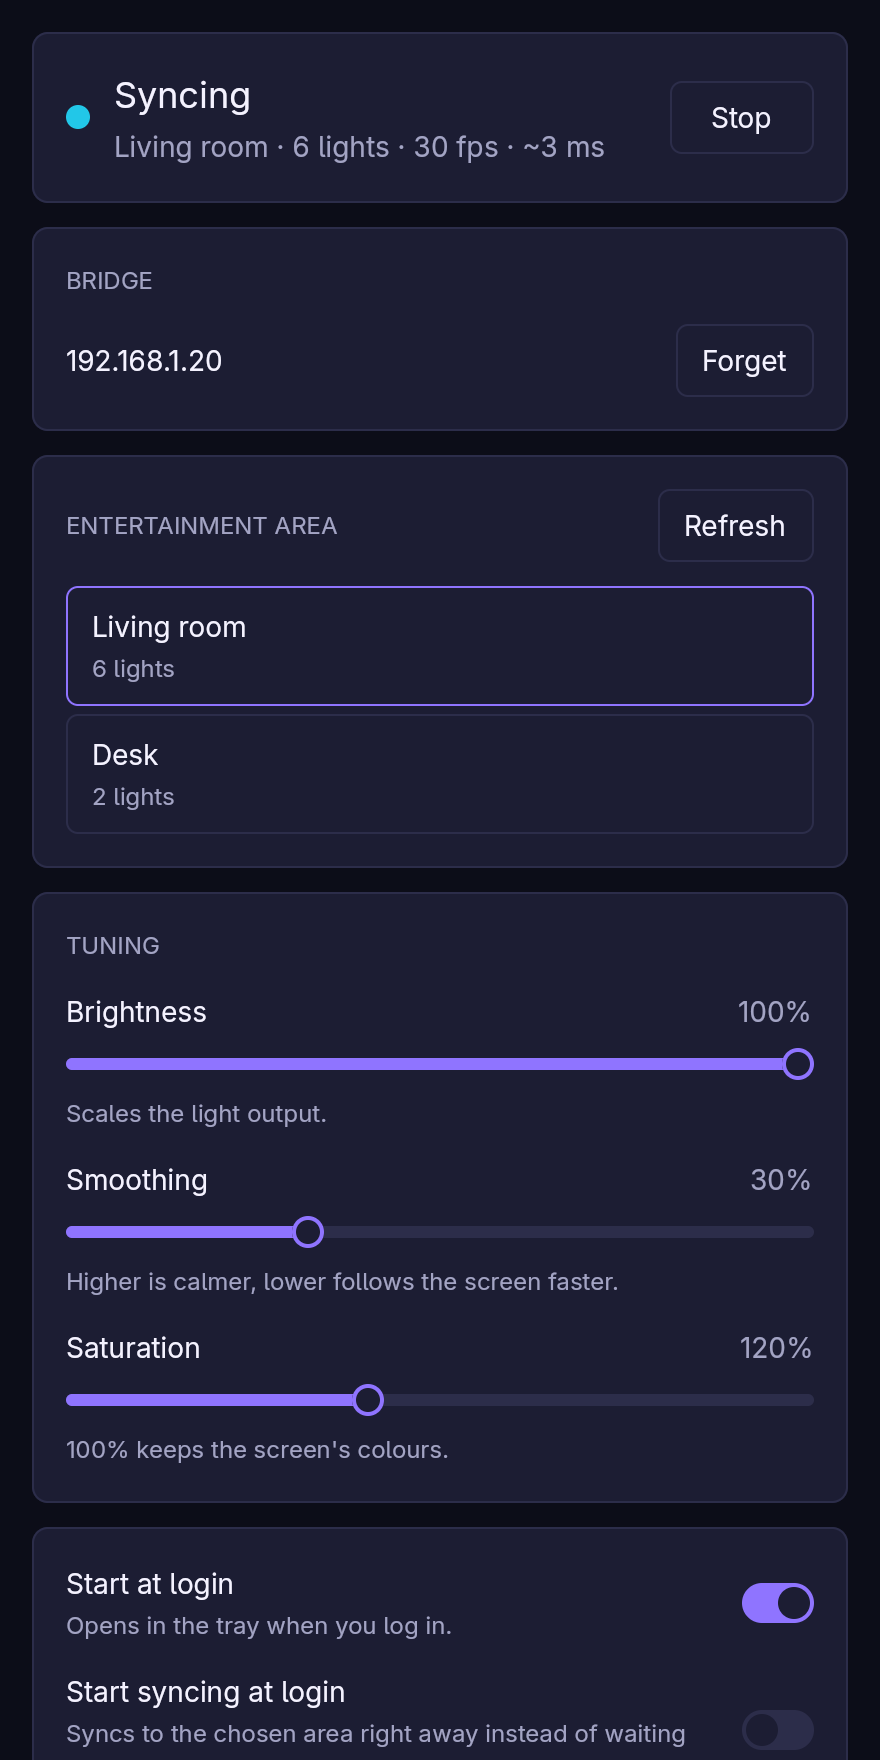
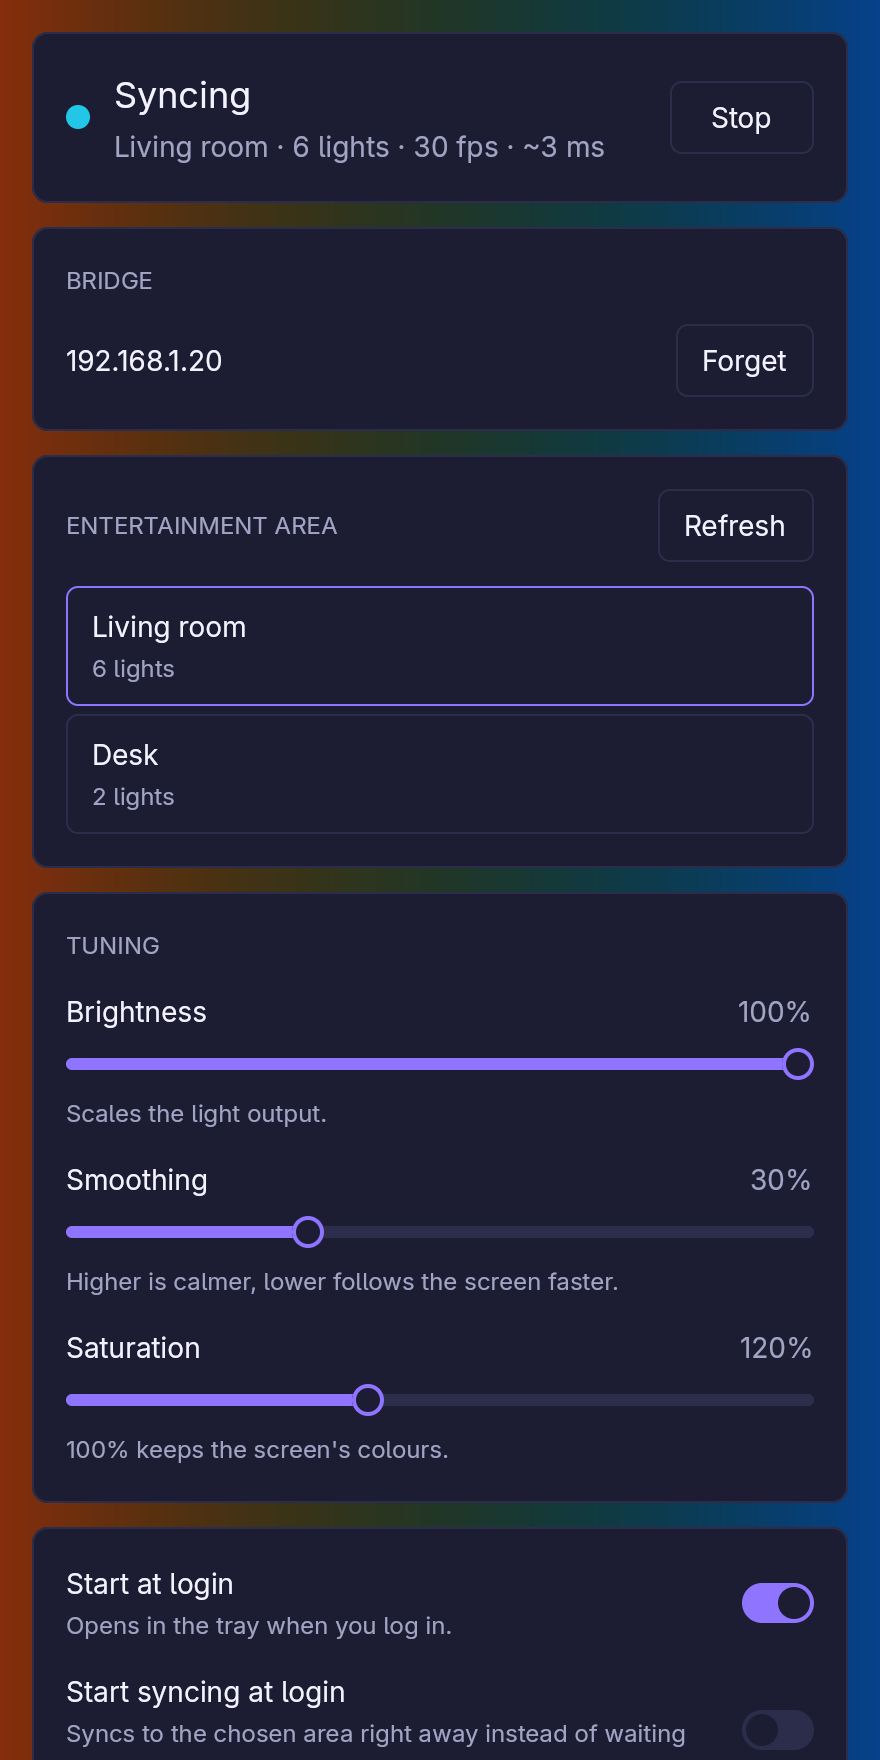
feat(gui): tint the window background with the screen's colours while syncing (#17)
The engine publishes the colours it sends each frame through
Engine::subscribe_colors, on its own channel so status watchers don't wake
every frame. The window paints a left-to-right gradient of them behind the cards.

Changed region(s): [[0.0, 0.0, 1.0, 1.0]]

diff --git a/crates/lightmime-gui/src/view.rs b/crates/lightmime-gui/src/view.rs
@@ -7,11 +7,12 @@ use std::time::Duration;
 
 use anyhow::Result;
 use gpui::{
-    AnyElement, Bounds, Context, Entity, FontWeight, Pixels, SharedString, Task, Window, div,
-    prelude::*, px,
+    AnyElement, Bounds, Context, Entity, FontWeight, Hsla, Pixels, Rgba, SharedString, Task,
+    Window, div, linear_color_stop, linear_gradient, prelude::*, px,
 };
+use lightmime_core::color::Zone;
 use lightmime_core::config::{MAX_SATURATION, MAX_SMOOTHING};
-use lightmime_core::hue::{self, Bridge, DiscoveredBridge};
+use lightmime_core::hue::{self, Bridge, ChannelColor, DiscoveredBridge};
 use lightmime_core::{BridgeConfig, EngineState, Status, SyncSettings};
 
 use crate::Shared;
@@ -87,6 +88,8 @@ pub struct MainView {
     slider_bounds: [Rc<Cell<Bounds<Pixels>>>; 3],
     save_settings: Option<Task<()>>,
     drag: Drag,
+    /// Left and right of the screen while syncing, painted behind the cards.
+    screen: Option<[Hsla; 2]>,
     _watchers: Vec<Task<()>>,
 }
 
@@ -103,6 +106,9 @@ impl MainView {
         let settings_watcher = watch(shared.engine.subscribe_settings(), cx, |this, s| {
             this.settings = s
         });
+        let colors_watcher = watch(shared.engine.subscribe_colors(), cx, |this, colors| {
+            this.screen = screen_edges(&colors)
+        });
 
         let mut view = Self {
             status: shared.engine.status(),
@@ -115,9 +121,10 @@ impl MainView {
             autostart: autostart::current(),
             notice: None,
             drag: Drag::default(),
+            screen: None,
             slider_bounds: Default::default(),
             save_settings: None,
-            _watchers: vec![status_watcher, settings_watcher],
+            _watchers: vec![status_watcher, settings_watcher, colors_watcher],
             shared,
         };
         if view.bridge.is_paired() {
@@ -612,7 +619,14 @@ impl Render for MainView {
             .id("main")
             .size_full()
             .overflow_y_scroll()
-            .bg(theme.bg)
+            .map(|this| match self.screen {
+                Some([left, right]) => this.bg(linear_gradient(
+                    90.,
+                    linear_color_stop(left, 0.),
+                    linear_color_stop(right, 1.),
+                )),
+                None => this.bg(theme.bg),
+            })
             .text_color(theme.text)
             .p_4()
             .flex()
@@ -640,6 +654,7 @@ impl Render for MainView {
             .into_any_element();
         div()
             .size_full()
+            .bg(theme.bg)
             .font_family(cx.global::<UiFont>().0.clone())
             .text_color(theme.text)
             .child(decorations::frame(
@@ -649,6 +664,34 @@ impl Render for MainView {
                 &self.drag,
                 content,
             ))
+    }
+}
+
+/// Average colour of the lights on the left and right half of the screen, half transparent
+/// so the theme's background tones it down.
+fn screen_edges(colors: &[(Zone, ChannelColor)]) -> Option<[Hsla; 2]> {
+    let side = |left: bool| {
+        let lights: Vec<_> = colors
+            .iter()
+            .filter(|(zone, _)| (zone.x < 0.5) == left)
+            .collect();
+        if lights.is_empty() {
+            return None;
+        }
+        let total = lights.len() as f32 * f32::from(u16::MAX);
+        let channel =
+            |i: usize| lights.iter().map(|(_, c)| f32::from(c.rgb[i])).sum::<f32>() / total;
+        Some(Hsla::from(Rgba {
+            r: channel(0),
+            g: channel(1),
+            b: channel(2),
+            a: 0.5,
+        }))
+    };
+    match (side(true), side(false)) {
+        (Some(left), Some(right)) => Some([left, right]),
+        (Some(only), None) | (None, Some(only)) => Some([only, only]),
+        (None, None) => None,
     }
 }
 
@@ -760,5 +803,54 @@ impl MainView {
             area: "Living room".into(),
             channels: 6,
         };
+        self.screen = screen_edges(&[
+            tests::light(0.0, [u16::MAX, 20_000, 0]),
+            tests::light(1.0, [0, 30_000, u16::MAX]),
+        ]);
+    }
+}
+
+#[cfg(test)]
+mod tests {
+    use super::*;
+
+    pub(super) fn light(x: f32, rgb: [u16; 3]) -> (Zone, ChannelColor) {
+        (
+            Zone {
+                channel_id: 0,
+                x,
+                y: 0.5,
+            },
+            ChannelColor { channel_id: 0, rgb },
+        )
+    }
+
+    #[test]
+    fn screen_edges_average_each_half() {
+        assert!(screen_edges(&[]).is_none());
+        let [left, right] = screen_edges(&[
+            light(0.0, [u16::MAX, 0, 0]),
+            light(0.2, [0, 0, 0]),
+            light(0.9, [0, 0, u16::MAX]),
+        ])
+        .unwrap();
+        assert_eq!(
+            Rgba::from(left),
+            Rgba {
+                r: 0.5,
+                g: 0.,
+                b: 0.,
+                a: 0.5
+            }
+        );
+        assert_eq!(
+            Rgba::from(right),
+            Rgba {
+                r: 0.,
+                g: 0.,
+                b: 1.,
+                a: 0.5
+            }
+        );
     }
 }

diff --git a/crates/lightmime-core/src/engine.rs b/crates/lightmime-core/src/engine.rs
@@ -73,6 +73,7 @@ pub struct Engine {
     commands: mpsc::UnboundedSender<Command>,
     status: watch::Receiver<Status>,
     settings: Arc<watch::Sender<SyncSettings>>,
+    colors: watch::Receiver<Vec<(Zone, ChannelColor)>>,
 }
 
 impl Engine {
@@ -83,11 +84,13 @@ impl Engine {
         let (commands, command_rx) = mpsc::unbounded_channel();
         let (status_tx, status) = watch::channel(Status::default());
         let settings = Arc::new(watch::Sender::new(config.sync.clone().sanitized()));
+        let (colors_tx, colors) = watch::channel(Vec::new());
         let actor = Actor {
             config,
             restore_token_path,
             settings: settings.subscribe(),
             status: Arc::new(status_tx),
+            colors: Arc::new(colors_tx),
             commands: commands.clone(),
             session: None,
             sessions_opened: 0,
@@ -97,6 +100,7 @@ impl Engine {
             commands,
             status,
             settings,
+            colors,
         }
     }
 
@@ -132,6 +136,12 @@ impl Engine {
         self.settings.subscribe()
     }
 
+    /// Watch the colours sent to the lights, with where on the screen each one comes from.
+    /// Empty while not streaming.
+    pub fn subscribe_colors(&self) -> watch::Receiver<Vec<(Zone, ChannelColor)>> {
+        self.colors.clone()
+    }
+
     /// Change settings; takes effect on the next frame.
     pub fn update_settings(&self, update: impl FnOnce(&mut SyncSettings)) {
         self.settings.send_if_modified(|settings| {
@@ -150,6 +160,7 @@ struct Actor {
     restore_token_path: Option<PathBuf>,
     settings: watch::Receiver<SyncSettings>,
     status: Arc<watch::Sender<Status>>,
+    colors: Arc<watch::Sender<Vec<(Zone, ChannelColor)>>>,
     commands: mpsc::UnboundedSender<Command>,
     session: Option<Session>,
     sessions_opened: u64,
@@ -297,6 +308,7 @@ impl Actor {
             room,
             settings: self.settings.clone(),
             status: self.status.clone(),
+            colors: self.colors.clone(),
             stop: stop.clone(),
         };
         self.sessions_opened += 1;
@@ -367,11 +379,18 @@ struct StreamWorker {
     room: Vec<ChannelColor>,
     settings: watch::Receiver<SyncSettings>,
     status: Arc<watch::Sender<Status>>,
+    colors: Arc<watch::Sender<Vec<(Zone, ChannelColor)>>>,
     stop: Arc<AtomicBool>,
 }
 
 impl StreamWorker {
     fn run(mut self) -> Result<()> {
+        let result = self.stream();
+        self.colors.send_replace(Vec::new());
+        result
+    }
+
+    fn stream(&mut self) -> Result<()> {
         let mut stream = EntertainmentStream::connect(
             &self.host,
             &self.identity,
@@ -403,6 +422,7 @@ impl StreamWorker {
                 None => self.room.clone(),
             };
             stream.send(&colors)?;
+            self.publish(&colors);
             sent += 1;
 
             let elapsed = window.elapsed();
@@ -422,16 +442,19 @@ impl StreamWorker {
 
         let stopping = Instant::now();
         while stopping.elapsed() < FADE {
-            stream.send(&wipe(
-                &colors,
-                &self.room,
-                self.mapper.zones(),
-                stopping.elapsed(),
-            ))?;
+            let fading = wipe(&colors, &self.room, self.mapper.zones(), stopping.elapsed());
+            stream.send(&fading)?;
+            self.publish(&fading);
             std::thread::sleep(Duration::from_millis(20));
         }
         stream.close();
         Ok(())
+    }
+
+    fn publish(&self, colors: &[ChannelColor]) {
+        let zones = self.mapper.zones().iter().copied();
+        self.colors
+            .send_replace(zones.zip(colors.iter().copied()).collect());
     }
 }
 

diff --git a/AGENTS.md b/AGENTS.md
@@ -52,7 +52,8 @@ packaging/linux/           metainfo, Flatpak manifest + launcher, flatpak.sh (bu
 
 - `lightmime-core` stays frontend-agnostic: no MQTT, CLI or GUI code there.
   Frontends interact only through `Engine` (`spawn`, `start`, `stop`,
-  `set_bridge`, `status`/`subscribe`, `settings`/`subscribe_settings`/`update_settings`).
+  `set_bridge`, `status`/`subscribe`, `settings`/`subscribe_settings`/`update_settings`,
+  `subscribe_colors`; the window paints its background from the latter while syncing).
   `lightmime-gui` embeds `Engine` the same way the daemon does; with MQTT on,
   both share one engine in the `gui` process.
 - The engine is an actor on the tokio runtime; frame streaming runs on a
